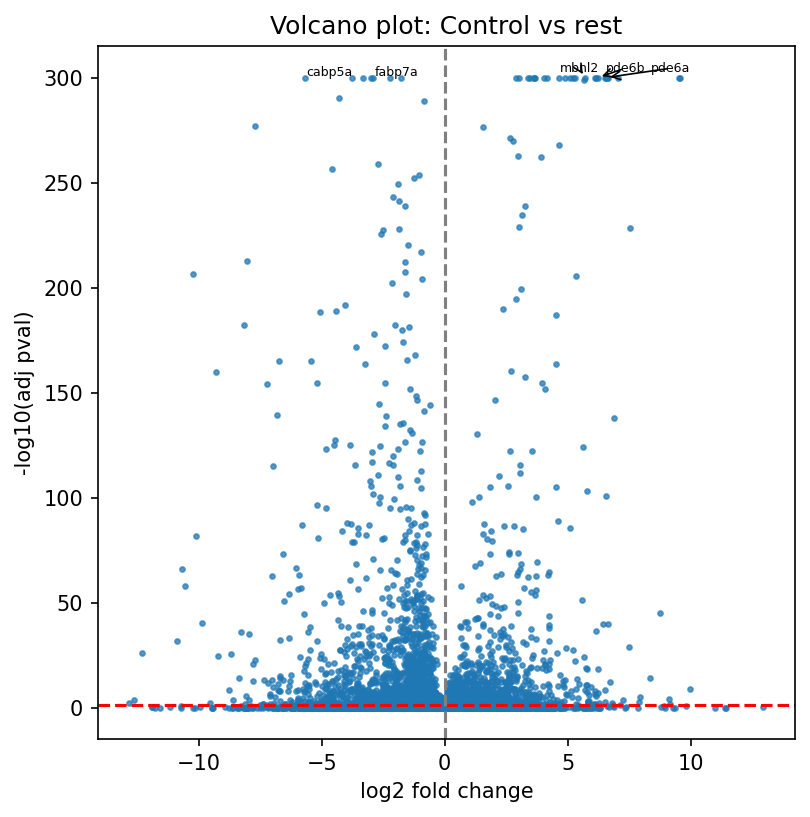
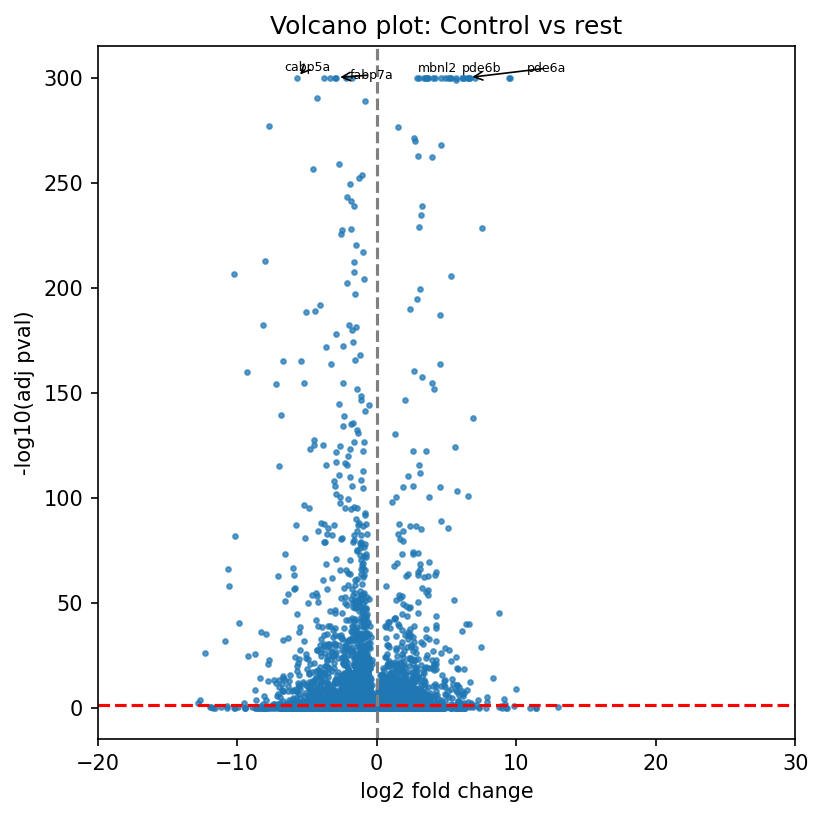
Update README to add DGE control vs rest

diff --git a/dge_rest.py b/dge_rest.py
@@ -1,4 +1,3 @@
-#!/usr/bin/env python3
 import argparse
 import scanpy as sc
 import pandas as pd
@@ -92,6 +91,7 @@ def main():
     plt.title(f"Volcano plot: {args.sample1} vs rest")
     plt.axhline(y=-np.log10(0.05), color='red', linestyle='--')
     plt.axvline(x=0, color='grey', linestyle='--')
+    plt.xlim(-20, 30)  # <-- ONLY CHANGE: Set x-axis limits from -20 to 30
 
     # ---------------- LABEL TOP-K GENES WITH adjustText (all get arrows) ----------------
     if args.topk is not None:
@@ -126,4 +126,3 @@ def main():
 
 if __name__ == "__main__":
     main()
-

diff --git a/README.md b/README.md
@@ -573,26 +573,41 @@ The following UMAP plots illustrate the clustering of subtypes within each major
 This volcano plot visualizes **all genes**, showing the relationship between the **magnitude of change** (log2 fold change) and **statistical significance** (-log10 adjusted p-value) for each gene.
 The top 5 genes with the most pronounced differences between Control and the rest are highlighted with arrows for clarity.
 
+- Red line on volcano plot = p-value of 0.05 (standard significance)
+
+- Grey line = no change (fold change = 0)
+
 ##### Rod
 
-![](figures/Rod_dge_Control_vs_rest_volcano.png?v=1)
+![](figures/Rod_dge_Control_vs_rest_volcano.png?v=2)
+
+[Top 50 Rod](https://docs.google.com/spreadsheets/d/1b9kUe7PiwMjpKvIN_B17PiKR3SwFwpWgjSRw9tgeBHM/edit?usp=sharing)
 
 ##### Cones 
 
 ![](figures/Cones_dge_Control_vs_rest_volcano.png?v=1)
 
+[Top 50 Cones](https://docs.google.com/spreadsheets/d/1rbSwGllne8Y_ODgJqUhTdtOUF8L5j4sriIVzR9n8WtA/edit?usp=sharing)
+
 ##### BC
 ![](figures/BC_dge_Control_vs_rest_volcano.png?v=1)
+
+[Top 50 BC](https://docs.google.com/spreadsheets/d/1Qrdk-dSWyK0qRIXkK1ackgnuwD8tiPyEaktXoFLiFq8/edit?usp=sharing)
 
 ##### AC
 ![](figures/AC_dge_Control_vs_rest_volcano.png?v=1)
 
+[Top 50 AC](https://docs.google.com/spreadsheets/d/13_D8tHKduCIgUb9GT1vLeA9MKIcPOC6QsOpDFhZaE3o/edit?usp=sharing)
+
 ##### HC
 ![](figures/HC_dge_Control_vs_rest_volcano.png?v=1)
+
+[Top 50 HC](https://docs.google.com/spreadsheets/d/1GCKoMuxRuxxq_E__IO5CwoMBnQUqXRNV1r-ZeBM92RA/edit?usp=sharing)
 
 ##### RGC
 ![](figures/RGC_dge_Control_vs_rest_volcano.png?v=1)
 
+[Top 50 RGC](https://docs.google.com/spreadsheets/d/1LNUEJX9TEBJtQ16a7tp56hj4t7rPQVRvimy67-fZ1tg/edit?usp=sharing)
 
 
 ## Pearson correlation 
